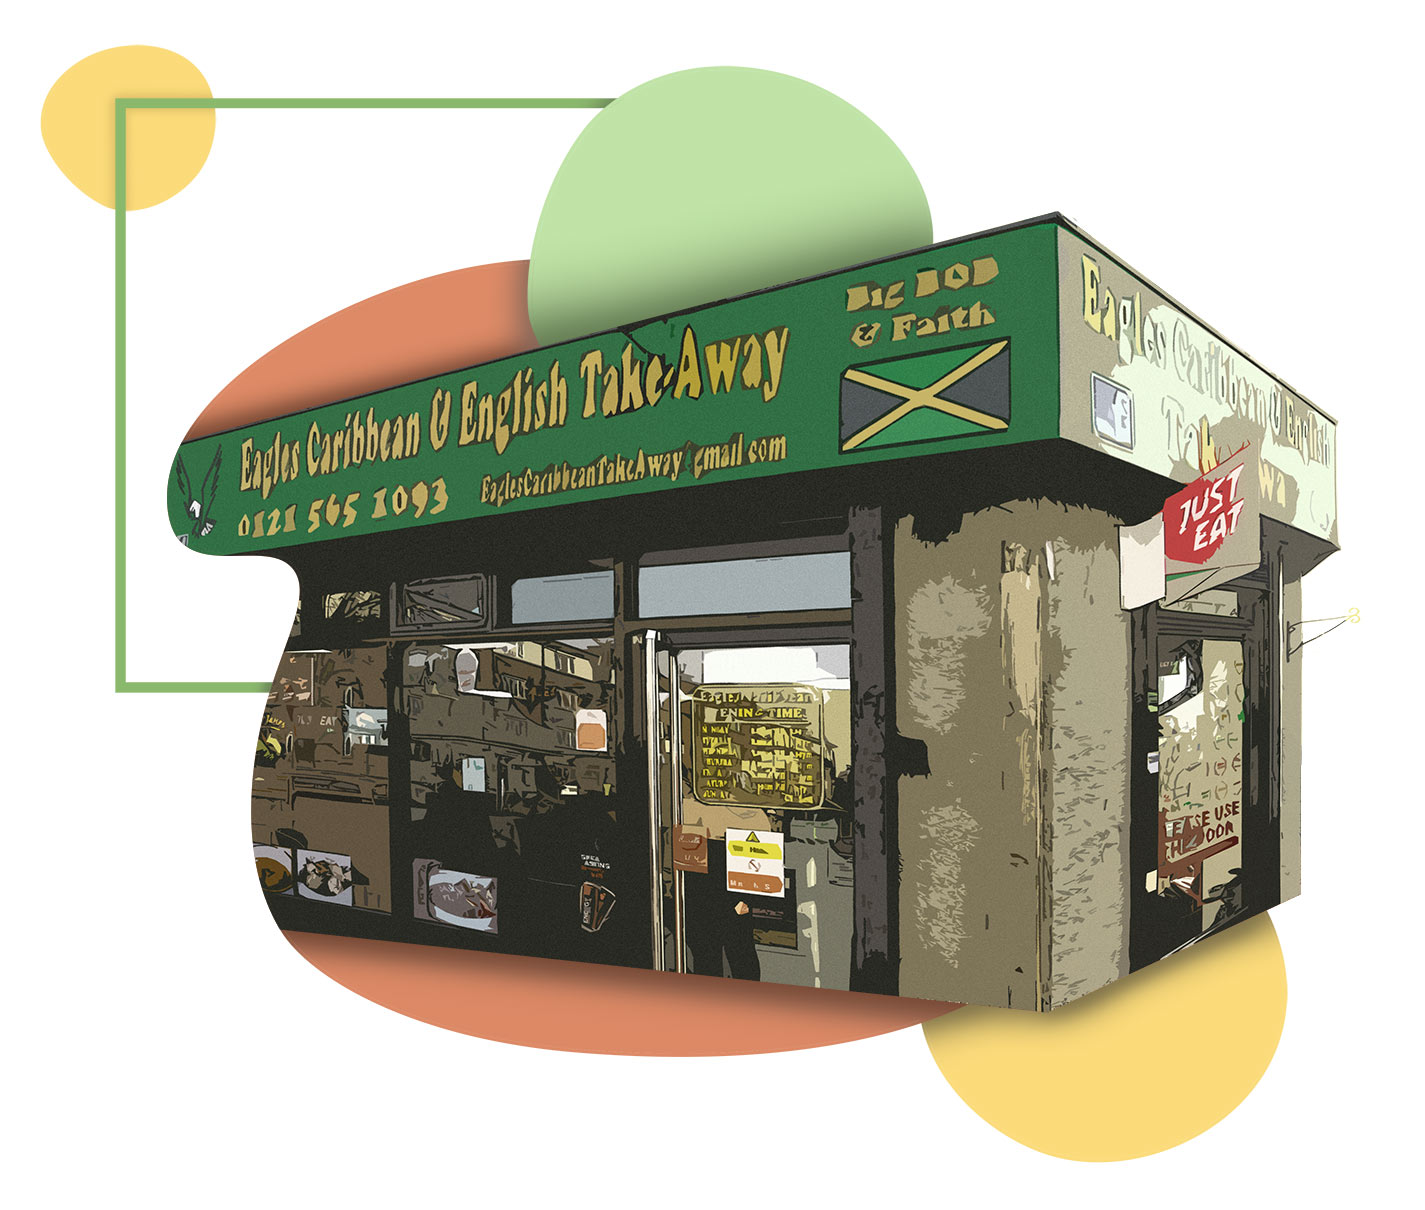
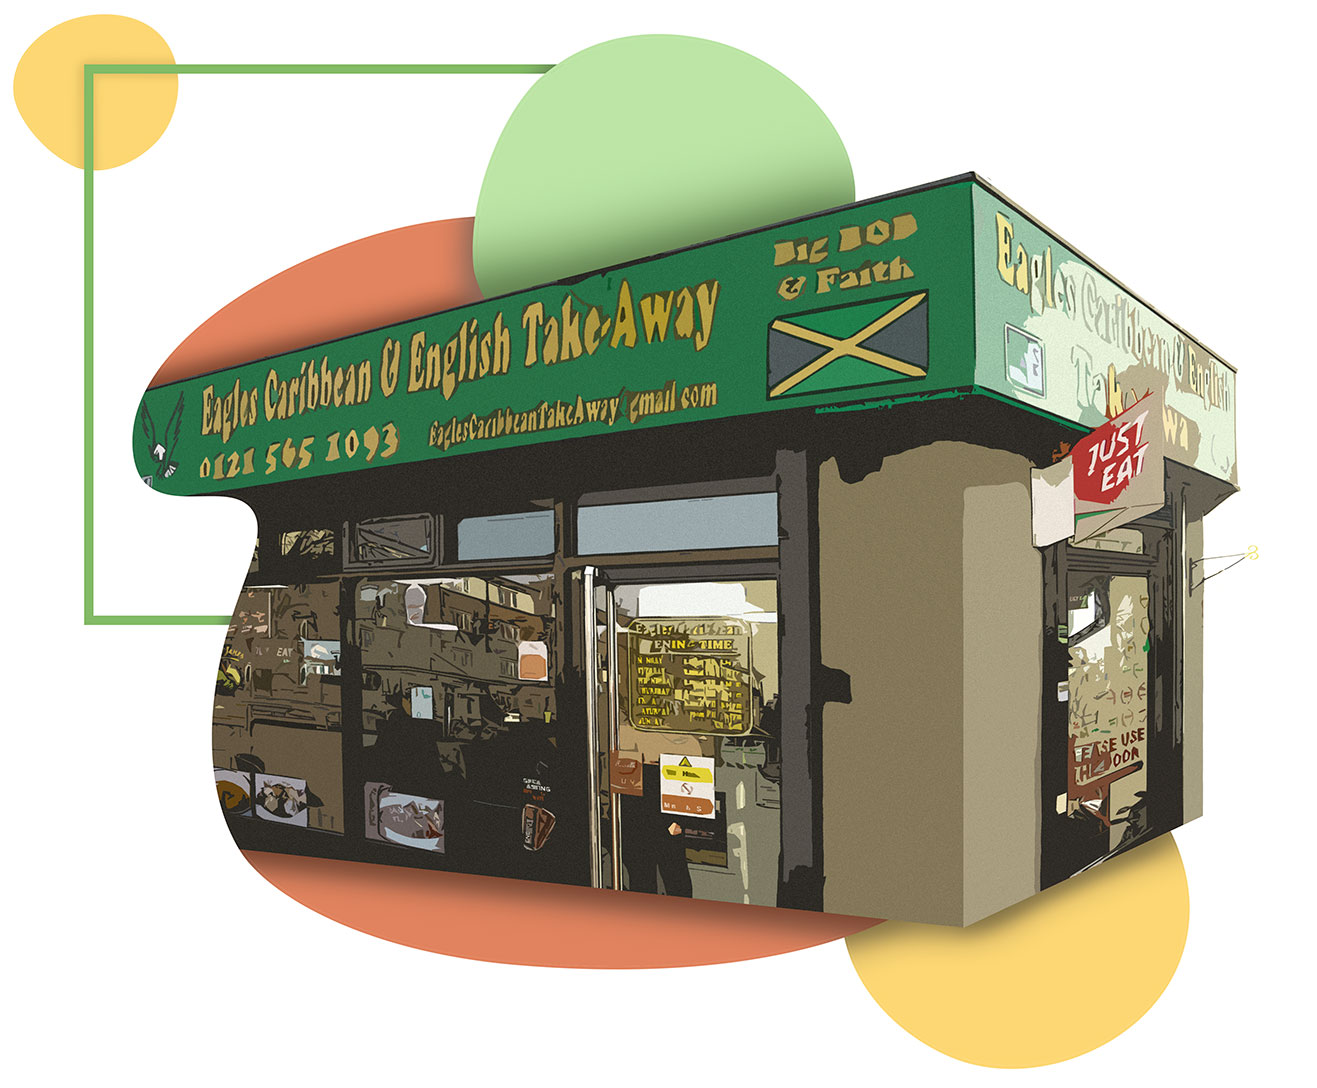
Replace homepage and about us page hero images

Changed region(s): [[0.0, 0.0, 0.9339, 1.0], [0.9028, 0.5, 0.9651, 0.5312], [0.9028, 0.7188, 0.9339, 0.75]]

diff --git a/src/views/Home.tsx b/src/views/Home.tsx
@@ -8,7 +8,7 @@ import Footer from "../components/Footer";
 import DishOne from "../assets/images/Dish1Small.png";
 import DishTwo from "../assets/images/Dish3CarrotsSmall.png";
 import DishFour from "../assets/images/Dish5RiceAndsaladSmall.png";
-import DishPlate from "../assets/svg/Homepage/Presentation attributes/plate.svg";
+import DishPlate from "../assets/images/homepage_Banner.jpg";
 import CategoryCard from "../components/Card/CategoryCard";
 import useMediaQuery from "@material-ui/core/useMediaQuery";
 import {SocialLink, SocialProvider} from '@mui-treasury/components/socialLink'
